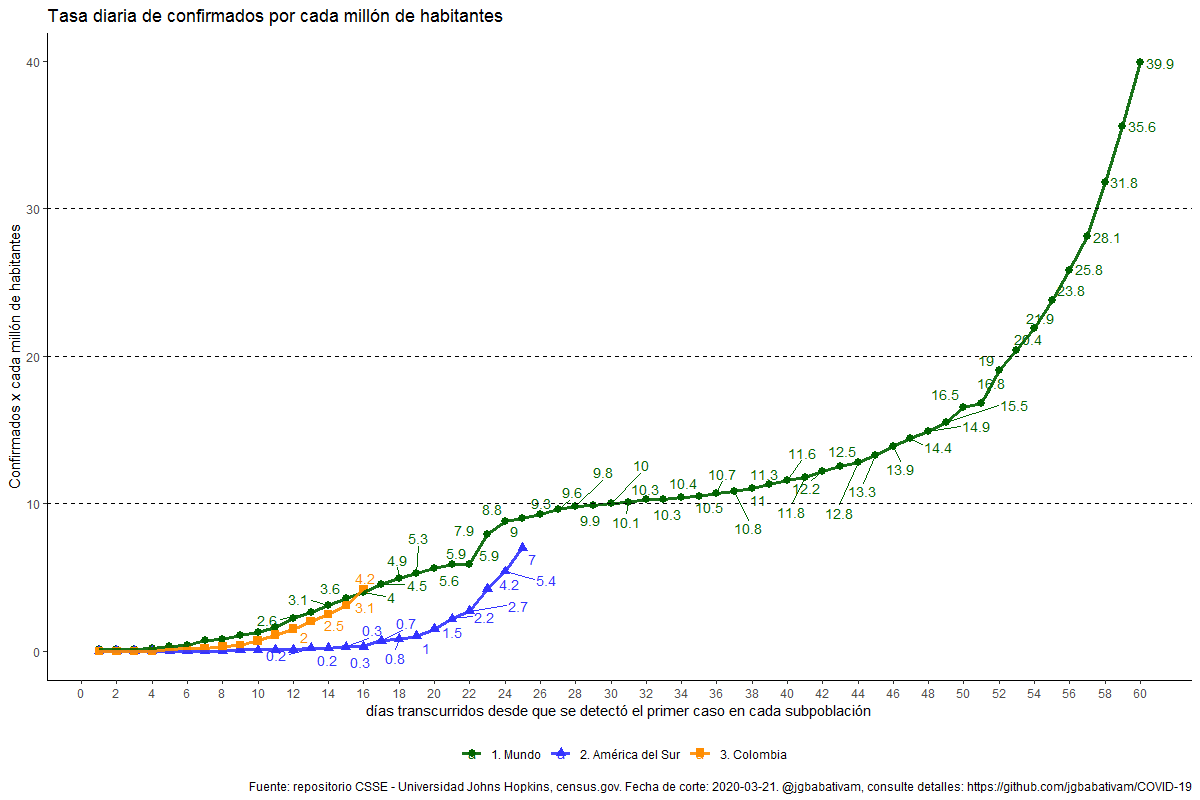
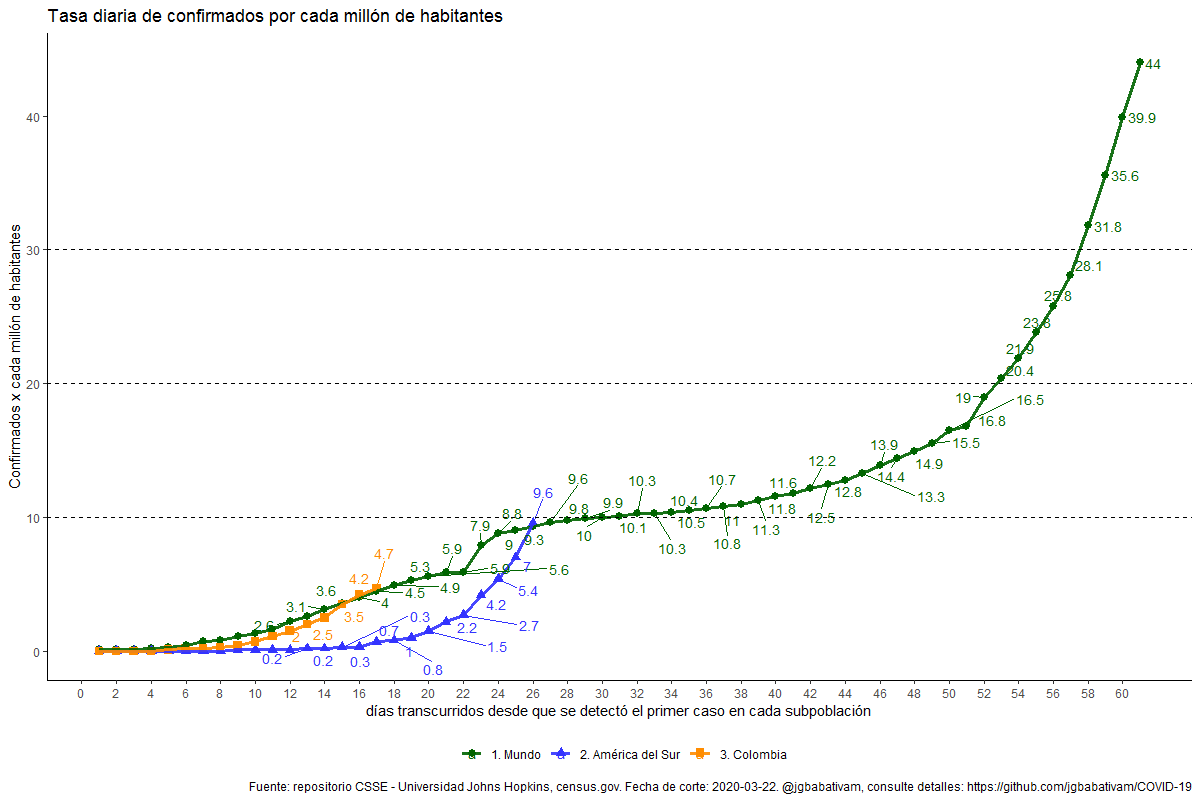
Update 23 marzo

diff --git a/README.md b/README.md
@@ -2,7 +2,7 @@
 
 Giovany Babativa (@jgbabativam, gbabativam@usal.es)
 
-Los resultados obtenidos en este informe están actualizados al: 20-03-2020
+Los resultados obtenidos en este informe están actualizados al: 21-03-2020
 
 
 ## Objetivo del recurso
